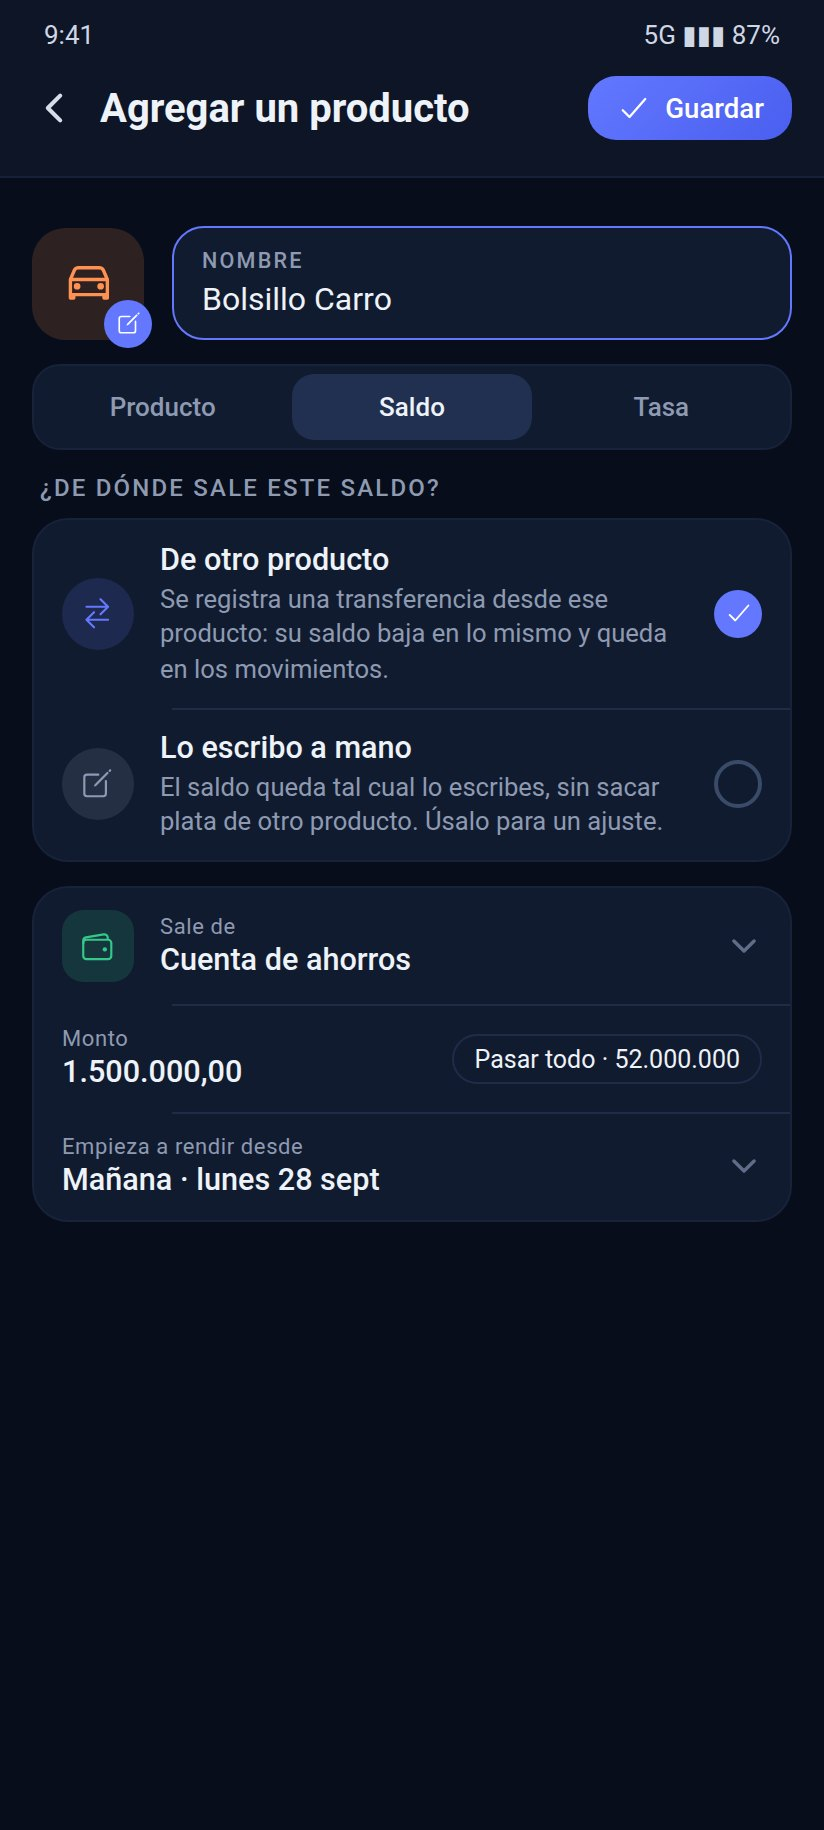
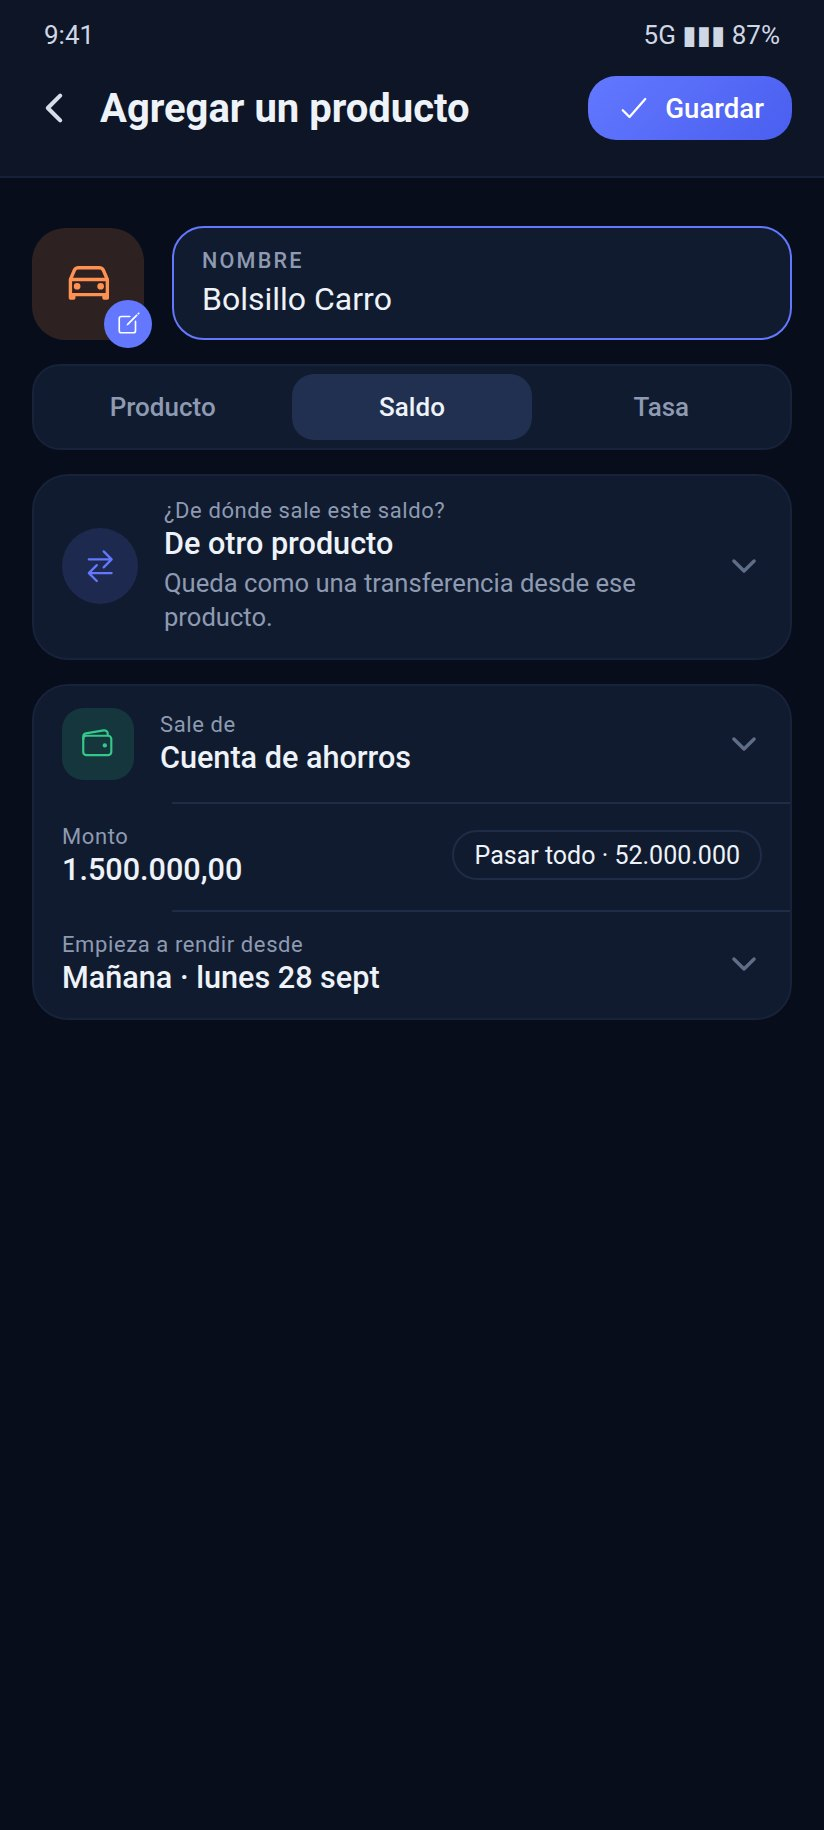
Group 4: one row for each explained choice, and notes that are notes
"Que cambia?" and "De donde sale este saldo?" show the choice made and
open their options in a sheet; every note row is labelled Nota and its
examples are notes, not category names.

Claude-Session: https://claude.ai/code/session_01QyUqFix1SMdsKVBtd1Wz88

diff --git a/docs/mockups/README.md b/docs/mockups/README.md
@@ -21,7 +21,7 @@ is redone, and superseded by Jose's review of 2026-09-28.
 | `1a`–`1n` | Group 1 (v5): Inicio (transfers apart, the donut with a capped legend), one account with products (its two quick buttons), one account with a long name (ellipsis and sliding), the "+" sheet, the movement form for spending, writing a note, a transfer, a move between products, two currencies, the account, product and category lists, editing and deleting |
 | `2a`–`2r` | Group 2 (v4): Cuentas (net worth, sorting, a multi-currency account, a card, one set aside), where net worth comes from, currencies and rates, typing a rate, adding a currency, a new account by hand and from a statement (reading it, and the form it fills), editing a card (top and bottom, the limit and its history), deleting, the icon, colour and own image, the archived, no accounts yet, an account whose face is its own image (`2q`) and its colour behind that image (`2r`) |
 | `3a`–`3j` | Group 3 (v4): Categorías closed and open, which list for a new one, editing (Para locked), a new one, the investment-return switch, the face's icon, colour and own image, the archived |
-| `4a`–`4z` | Group 4 (v5): Rendimientos in the Cuentas tab, adding an account; an account's page with its selector (Productos, Movimientos, Pagos, Días), one day corrected or set to zero, stopping it; a product with its selector (Producto, Saldo said as a sum, Tasa, one using the account's rate, a new rate, Bonificación and a new one), deleting it and choosing where its balance goes; a CDT (CDT, Al vencer and choosing where it pays, Pagos); a new product's Saldo; a product's own income and expense with "¿Qué cambia?" and the note |
+| `4a`–`4zz` | Group 4 (v5): Rendimientos in the Cuentas tab, adding an account; an account's page with its selector (Productos, Movimientos, Pagos, Días), one day corrected or set to zero, stopping it; a product with its selector (Producto, Saldo said as a sum, Tasa, one using the account's rate, a new rate, Bonificación and a new one), deleting it and choosing where its balance goes; a CDT (CDT, Al vencer and choosing where it pays, Pagos); a new product's Saldo; a product's own income and expense with "¿Qué cambia?" as one row opening a sheet, and the note |
 | `d01`–`d05` | Report (money, yields), reading a statement, Por revisar (and choosing several) |
 | `d06`–`d07` | Avisos del banco, without and with permission |
 | `d08`–`d13` | Más, Importar y exportar, restoring, Google signed out and in (change account, sign out), replacing the Drive copy |

diff --git a/CLAUDE.md b/CLAUDE.md
@@ -2206,6 +2206,14 @@ does today, with these changes of ACCESS for Jose to accept or refuse:
 - **A product's own movement keeps its note**, with everything the note
   does today: the usual one written for that product and category, and
   the matches under it while typing (`4x`, `4y`).
+- **A choice with explanations takes one row, and its options open in a
+  sheet** (Jose, 2026-09-28: save space, minimal): "¿Qué cambia?" and
+  "¿De dónde sale este saldo?" show only what is chosen; the options and
+  what each does are one tap away (`4y`).
+- **The note is not the category.** Every note row is labelled "Nota" and
+  holds the person's own words about that movement; the usual note and
+  the matches while typing are notes written before, never category
+  names (`4x`, `4z`).
 - (The black areas in the contact sheets sent before were empty slots,
   not screens: nothing was missed. The sheets are now as wide as what
   they hold.)
